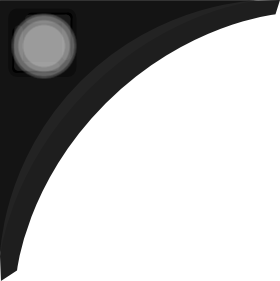
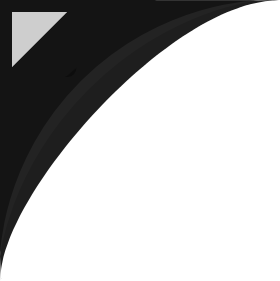
- remove hover tint on button, add click image to button

diff --git a/gui/gui_default.rb b/gui/gui_default.rb
@@ -66,13 +66,13 @@ class GuiDefault < GuiInterface
 			set_state(:closed, {:offset_x => 0.56, :hidden => true})
 
 		# Actors corner button (bottom right)
-		self << (@actors_button = GuiButton.new.set(:scale_x => -0.04, :scale_y => -0.06, :offset_x => 0.48, :offset_y => -0.47, :background_image => $engine.load_image('images/corner.png'), :background_image_hover => $engine.load_image('images/corner-hover.png')))
+		self << (@actors_button = GuiButton.new.set(:scale_x => -0.04, :scale_y => -0.06, :offset_x => 0.48, :offset_y => -0.47, :background_image => $engine.load_image('images/corner.png'), :background_image_hover => $engine.load_image('images/corner-hover.png'), :background_image_click => $engine.load_image('images/corner-click.png')))
 		@actors_button.on_clicked {
 			toggle_actors_flyout!
 		}
 
 		# Directors corner button (top right)
-		self << (@directors_button = GuiButton.new.set(:scale_x => -0.04, :scale_y => 0.06, :offset_x => 0.48, :offset_y => 0.47, :background_image => $engine.load_image('images/corner.png'), :background_image_hover => $engine.load_image('images/corner-hover.png')))
+		self << (@directors_button = GuiButton.new.set(:scale_x => -0.04, :scale_y => 0.06, :offset_x => 0.48, :offset_y => 0.47, :background_image => $engine.load_image('images/corner.png'), :background_image_hover => $engine.load_image('images/corner-hover.png'), :background_image_click => $engine.load_image('images/corner-click.png')))
 		@directors_button.on_clicked {
 			open_directors_menu!
 		}
@@ -85,7 +85,7 @@ class GuiDefault < GuiInterface
 			set_state(:closed, {:hidden => true, :offset_x => -0.56})
 
 		# Events/Variables corner button (bottom left)
-		self << @events_button = GuiButton.new.set(:scale_x => 0.04, :scale_y => -0.06, :background_image => $engine.load_image('images/corner.png'), :background_image_hover => $engine.load_image('images/corner-hover.png')).
+		self << @events_button = GuiButton.new.set(:scale_x => 0.04, :scale_y => -0.06, :background_image => $engine.load_image('images/corner.png'), :background_image_hover => $engine.load_image('images/corner-hover.png'), :background_image_click => $engine.load_image('images/corner-click.png')).
 			add_state(:closed, {:hidden => true, :offset_x => -0.55, :offset_y => -0.53}).
 			set_state(:open, {:hidden => false, :offset_x => -0.48, :offset_y => -0.47})
 
@@ -94,7 +94,7 @@ class GuiDefault < GuiInterface
 		}
 
 		# Project corner button (upper left)
-		self << @project_menu_button = GuiButton.new.set(:scale_x => 0.04, :scale_y => 0.06, :offset_x => -0.48, :offset_y => 0.47, :background_image => $engine.load_image('images/corner.png'), :background_image_hover => $engine.load_image('images/corner-hover.png'))
+		self << @project_menu_button = GuiButton.new.set(:scale_x => 0.04, :scale_y => 0.06, :offset_x => -0.48, :offset_y => 0.47, :background_image => $engine.load_image('images/corner.png'), :background_image_hover => $engine.load_image('images/corner-hover.png'), :background_image_click => $engine.load_image('images/corner-click.png'))
 		@project_menu_button.on_clicked {
 			@overlay.switch_state({:closed => :open}, duration=0.4)
 			@main_menu.switch_state({:closed => :open}, duration=0.2)

diff --git a/gui/gui_button.rb b/gui/gui_button.rb
@@ -1,7 +1,7 @@
 class GuiButton < GuiObject
 	BUTTON_COLOR = [1.0,1.0,1.0,1.0]
-	BUTTON_HOVER_COLOR = [1.0,0.5,0.5]
-	BUTTON_CLICK_COLOR = [0.5,1.0,0.5]
+	#BUTTON_HOVER_COLOR = [1.0,0.5,0.5]
+	#BUTTON_CLICK_COLOR = [0.5,1.0,0.5]
 
 	callback :clicked
 	callback :holding
@@ -20,14 +20,14 @@ class GuiButton < GuiObject
 	def gui_render!
 		return if hidden?
 		with_positioning {
-			with_color(gui_color) {
+#			with_color(gui_color) {
 				gui_render_background
-			}
+#			}
 		}
 	end
 
 	def gui_render_background
-		if pointer_clicking? && background_image_click
+		if pointer_holding? && background_image_click
 			background_image_click.using {
 				unit_square
 			}

diff --git a/gui/gui_pointer_behavior.rb b/gui/gui_pointer_behavior.rb
@@ -16,6 +16,10 @@ module GuiPointerBehavior
 		pointers_hovering.find { |pointer| pointer.click? }
 	end
 
+	def pointer_holding?
+		pointers_hovering.find { |pointer| pointer.hold? }
+	end
+
 	def pointer_dragging?
 		pointers_hovering.find { |pointer| pointer.dragging? }
 	end
